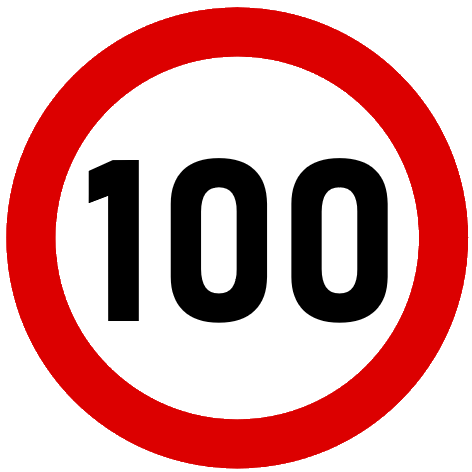
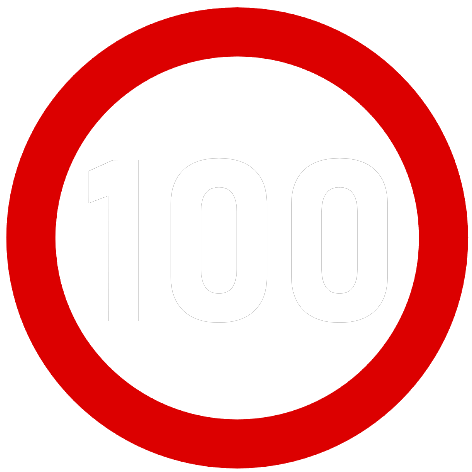
제한속도 이미지 관련 변경

Changed region(s): [[0.5932, 0.3263, 0.8305, 0.6822], [0.3559, 0.3263, 0.5636, 0.6822], [0.178, 0.3263, 0.2966, 0.6822]]

diff --git a/selfdrive/ui/paint.cc b/selfdrive/ui/paint.cc
@@ -629,25 +629,19 @@ static void ui_draw_vision_event(UIState *s) {
     const int img_x_size = 200*1.5;
     const int img_y_size = 200*1.5;
     float img_turn_alpha = 0.7f;
-    ui_draw_image(s, {img_x, img_y, img_x_size, img_y_size}, "safetycam", img_turn_alpha);
+    if ((29 < s->scene.limitSpeedCamera) && (s->scene.limitSpeedCamera < 40)) {ui_draw_image(s, {img_x, img_y, img_x_size, img_y_size}, "speed_30", img_turn_alpha);}
+    else if ((39 < s->scene.limitSpeedCamera) && (s->scene.limitSpeedCamera < 50)) {ui_draw_image(s, {img_x, img_y, img_x_size, img_y_size}, "speed_40", img_turn_alpha);}
+    else if ((49 < s->scene.limitSpeedCamera) && (s->scene.limitSpeedCamera < 60)) {ui_draw_image(s, {img_x, img_y, img_x_size, img_y_size}, "speed_50", img_turn_alpha);}
+    else if ((59 < s->scene.limitSpeedCamera) && (s->scene.limitSpeedCamera < 70)) {ui_draw_image(s, {img_x, img_y, img_x_size, img_y_size}, "speed_60", img_turn_alpha);}
+    else if ((69 < s->scene.limitSpeedCamera) && (s->scene.limitSpeedCamera < 80)) {ui_draw_image(s, {img_x, img_y, img_x_size, img_y_size}, "speed_70", img_turn_alpha);}
+    else if ((79 < s->scene.limitSpeedCamera) && (s->scene.limitSpeedCamera < 90)) {ui_draw_image(s, {img_x, img_y, img_x_size, img_y_size}, "speed_80", img_turn_alpha);}
+    else if ((89 < s->scene.limitSpeedCamera) && (s->scene.limitSpeedCamera < 100)) {ui_draw_image(s, {img_x, img_y, img_x_size, img_y_size}, "speed_90", img_turn_alpha);}
+    else if ((99 < s->scene.limitSpeedCamera) && (s->scene.limitSpeedCamera < 110)) {ui_draw_image(s, {img_x, img_y, img_x_size, img_y_size}, "speed_100", img_turn_alpha);}
+    else if ((109 < s->scene.limitSpeedCamera) && (s->scene.limitSpeedCamera < 120)) {ui_draw_image(s, {img_x, img_y, img_x_size, img_y_size}, "speed_110", img_turn_alpha);}
   }
 
   //if (s->scene.controls_state.getEngageable()){
-  if (s->scene.limitSpeedCamera > 29) {
-    const int img_turn_size = 180;
-    const int img_turn_x = viz_event_x-(img_turn_size/4)+85;
-    const int img_turn_y = viz_event_y;
-    float img_turn_alpha = 0.7f;
-    if ((29 < s->scene.limitSpeedCamera) && (s->scene.limitSpeedCamera < 40)) {ui_draw_image(s, {img_turn_x, img_turn_y, img_turn_size, img_turn_size}, "speed_30", img_turn_alpha);}
-    else if ((39 < s->scene.limitSpeedCamera) && (s->scene.limitSpeedCamera < 50)) {ui_draw_image(s, {img_turn_x, img_turn_y, img_turn_size, img_turn_size}, "speed_40", img_turn_alpha);}
-    else if ((49 < s->scene.limitSpeedCamera) && (s->scene.limitSpeedCamera < 60)) {ui_draw_image(s, {img_turn_x, img_turn_y, img_turn_size, img_turn_size}, "speed_50", img_turn_alpha);}
-    else if ((59 < s->scene.limitSpeedCamera) && (s->scene.limitSpeedCamera < 70)) {ui_draw_image(s, {img_turn_x, img_turn_y, img_turn_size, img_turn_size}, "speed_60", img_turn_alpha);}
-    else if ((69 < s->scene.limitSpeedCamera) && (s->scene.limitSpeedCamera < 80)) {ui_draw_image(s, {img_turn_x, img_turn_y, img_turn_size, img_turn_size}, "speed_70", img_turn_alpha);}
-    else if ((79 < s->scene.limitSpeedCamera) && (s->scene.limitSpeedCamera < 90)) {ui_draw_image(s, {img_turn_x, img_turn_y, img_turn_size, img_turn_size}, "speed_80", img_turn_alpha);}
-    else if ((89 < s->scene.limitSpeedCamera) && (s->scene.limitSpeedCamera < 100)) {ui_draw_image(s, {img_turn_x, img_turn_y, img_turn_size, img_turn_size}, "speed_90", img_turn_alpha);}
-    else if ((99 < s->scene.limitSpeedCamera) && (s->scene.limitSpeedCamera < 110)) {ui_draw_image(s, {img_turn_x, img_turn_y, img_turn_size, img_turn_size}, "speed_100", img_turn_alpha);}
-    else if ((109 < s->scene.limitSpeedCamera) && (s->scene.limitSpeedCamera < 120)) {ui_draw_image(s, {img_turn_x, img_turn_y, img_turn_size, img_turn_size}, "speed_110", img_turn_alpha);}
-  } else if (s->scene.controls_state.getEnabled()){
+  if (s->scene.controls_state.getEnabled()){
     float angleSteers = s->scene.car_state.getSteeringAngleDeg();
     ui_draw_circle_image(s, bg_wheel_x, bg_wheel_y+20, bg_wheel_size, "wheel", color, 1.0f, angleSteers);
   } else {
